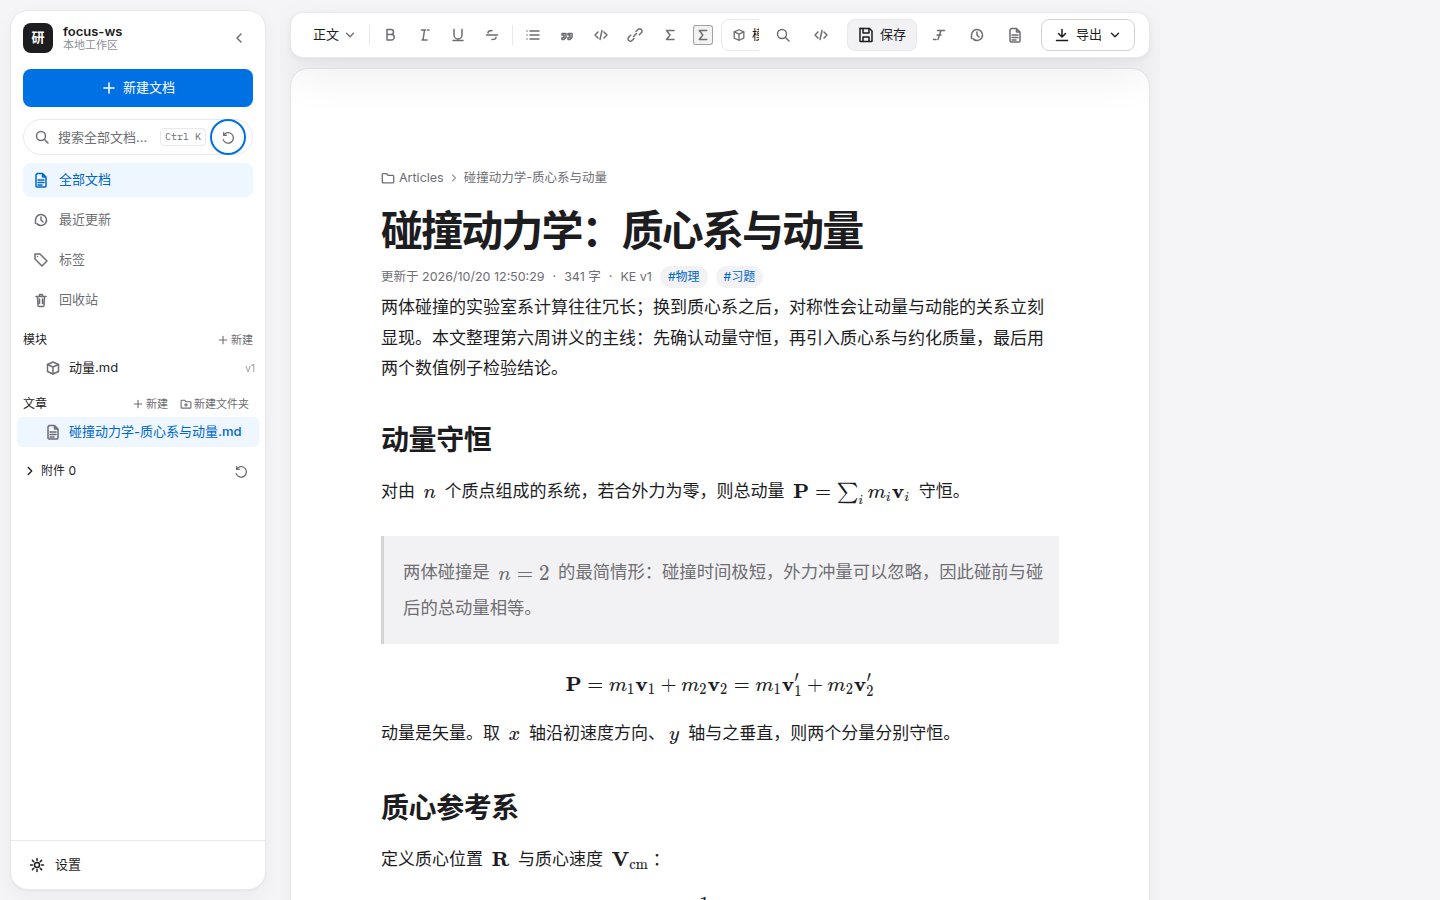
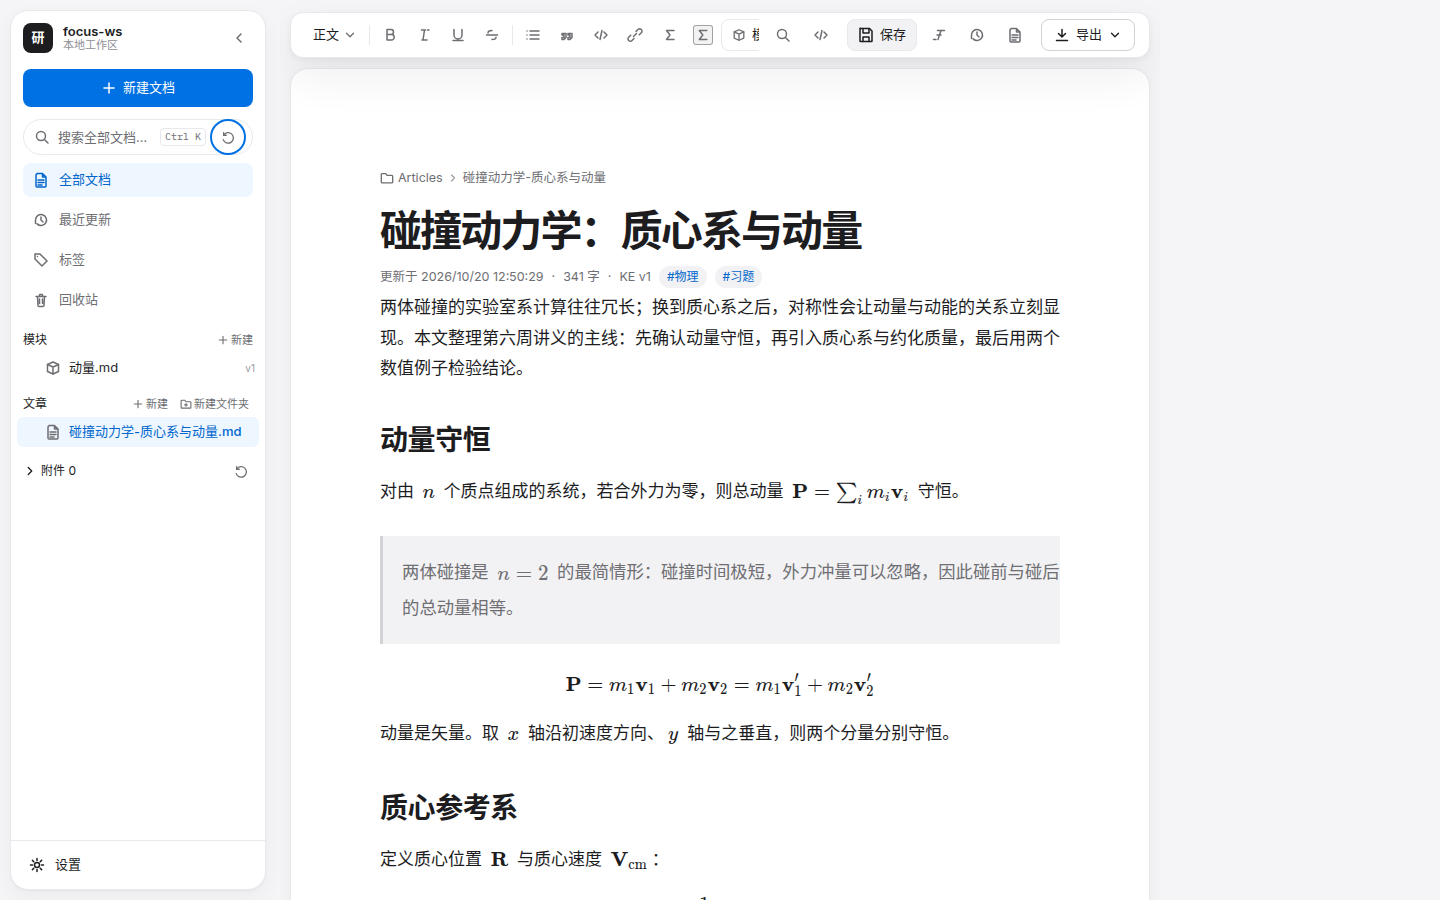
docs(focus-ui): 复验记录——阅读列 680 / 壳层 reduced-motion 修复抽查（QA §9）与证据刷新

diff --git a/docs/focus-ui/VERIFICATION-REPORT.md b/docs/focus-ui/VERIFICATION-REPORT.md
@@ -101,7 +101,7 @@ HEAD 5ed8fa2（dirty 0）
 | 纸面宽 / 圆角 / 边框 | 860 / 18 / 1px | 860 / 18px / 1px | PASS |
 | 纸面居中 | 中心 = 窗口中心 | 1440→720；1024→512；800→400 | PASS |
 | 纸面左边缘（侧栏展开） | 280+10 = 290 | 290 | PASS |
-| 阅读列宽 | 680 | **678**（-2px，见 §4.4） | PASS（±3 容差） |
+| 阅读列宽 | 680 | **678**（验收快照时；Lead 随后把 padding clamp 上限 90→89px，复验 1440 档 = **680**，见 §9） | PASS |
 | 正文 | 17px / 行高 1.8 | 17px / 30.6px | PASS |
 | 标题 | 42px / 1.1 / -0.045em / 650 | 42px / 46.2px / -1.9px / 650 | PASS |
 | 命令条 | 高 46 / top 12 / 圆角 13 / 与纸面同宽 | 46 / 12 / 13px / 860（x 对齐 290） | PASS |
@@ -151,8 +151,8 @@ HEAD 5ed8fa2（dirty 0）
 | 2 | P3 | 文档信息浮层信息优先级不同：基线标题「文档信息」且大纲优先；当前标题「文档属性」且属性优先 | `03` 截图 vs `overlays.png` 02 区 | 若设计定稿要求大纲优先，调整 RightPanel 分区顺序与标题 |
 | 3 | P3 | 设置页形态与基线截图不同（居中卡片浮层 vs 独立页）；「切换工作区」按钮文字疑似被截断为「切换...」 | `06` 截图 | 按 Lead task-1 指令本形态属预期；截断问题建议设置专项目检 |
 | 4 | P3 | 启动器视觉细节：品牌标被蓝色方块 "A" 替代；路径输入/浏览按钮不常驻；「最近使用」条目数取决于真实数据 | `05` 截图 vs `launcher.png` | 若要求与基线像素级一致，需补品牌资产与常驻路径行 |
-| 5 | P3 | 阅读列实测 678px（基线 680px，-2px）：`.focus-paper` padding 的 `clamp(..., 90px)` 上限在 1440 档命中 | `metrics.json`「阅读列宽 680」actual=678 | 视觉不可辨；若要求像素级一致，把 clamp 上限提到 ≥91px 即可 |
-| 6 | P3 | 壳层自定义过渡（`index.css`：侧栏 padding 220ms、收起/展开 140ms）未加 `@media (prefers-reduced-motion: reduce)` 覆盖（组件层 Tailwind `motion-reduce:` 已正确生效） | `a11y-probe.json`：reduce 下组件 `transition-property:none`；`index.css` 无该媒体查询 | 低风险，建议补一条壳层过渡的 reduced-motion 降级 |
+| 5 | P3 | 阅读列实测 678px（基线 680px，-2px）：`.focus-paper` padding 的 `clamp(..., 90px)` 上限在 1440 档命中 | `metrics.json`「阅读列宽 680」actual=678 | **已由 Lead 修复（clamp 90→89px）并复验 PASS：1440 档 = 680**；800 档仍 678（padding 百分比基数是滚动容器宽，非纸面内容宽），视觉不可辨 |
+| 6 | P3 | 壳层自定义过渡（`index.css`：侧栏 padding 220ms、收起/展开 140ms）未加 `@media (prefers-reduced-motion: reduce)` 覆盖（组件层 Tailwind `motion-reduce:` 已正确生效） | `a11y-probe.json`：reduce 下组件 `transition-property:none`；`index.css` 无该媒体查询 | **已由 Lead 补媒体查询并复验 PASS：reduce 下 `.focus-body-row` transitionDuration 0.22s→0s**（§9） |
 | 7 | P3 | ≤760 断点未截图覆盖（800 档属于 760–1280 区间）：纸面全宽去边框圆角行为未取证 | `VISUAL-ACCEPTANCE.md` §5 | 建议后续加 700×900 一张（脚本扩展一小段即可） |
 | 8 | 环境 | 已在跑的 vite dev server `127.0.0.1:5273` **服务陈旧模块**（WSL drvfs watcher 漏事件）：`curl /src/App.tsx` 缺新标识符，`?t=` 才重新 transform | 本次实测（见 `VISUAL-ACCEPTANCE.md` §0） | 用 5273 做视觉自查前先重启该 server，或直接用 `verify-ui.cjs`（默认自起全新实例） |
 
@@ -199,6 +199,29 @@ KE_STRICT=1 node docs/focus-ui/verify-ui.cjs
 | 焦点环/reduced-motion 探针 | `/tmp/focus-shots/a11y-probe.json`、`/tmp/focus-shots/evidence-focus-ring-1440x900.png` |
 | 验收清单（112 检查项） | `docs/focus-ui/VISUAL-ACCEPTANCE.md` |
 | 截图脚本 | `docs/focus-ui/verify-ui.cjs` |
+
+## 9. 复验：对 Lead 两处修复的抽查（验收后追加）
+
+> 说明：本报告 §1–§8 对应快照 `5ed8fa2`（工作树干净）。验收完成后 Lead 在本地修了
+> `frontend/src/index.css` 两处（对应本报告 §5-5 / §5-6），QA 随即做了一次只读复验：
+> `node docs/focus-ui/verify-ui.cjs` + a11y 探针（脚本自起全新 vite，避免陈旧模块）。
+> 复验时 git 状态：`HEAD 5ed8fa2` + 未提交修改（`M frontend/src/index.css`，非 QA 所改）。
+
+| 修复项 | 修复内容 | 复验结果 | 证据 |
+|---|---|---|---|
+| 阅读列 680 | `.focus-paper` 左右 padding `clamp(..., 90px)` → `clamp(..., 89px)` | **PASS**：1440×900 阅读列实测 **680.0**（修复前 678）；119 项断言仍全 PASS。800 档仍 678（padding 百分比基数为滚动容器宽 800 → 60px/侧；属预期，-2px 视觉不可辨） | `/tmp/focus-shots/metrics.json`（actual=680）、`docs/focus-ui/evidence/metrics.json` |
+| reduced-motion 壳层降级 | 新增 `@media (prefers-reduced-motion: reduce)`：`.focus-body-row / .focus-sidebar-collapse / .focus-sidebar-reopen / 命令条 / inspector-sheet` `transition: none !important` | **PASS**：`reducedMotion=reduce` 下 `.focus-body-row transitionDuration` **0.22s → 0s**；命令条同步 0s；焦点环仍 PASS（Tab → 2px solid accent, offset 2px） | `/tmp/focus-shots/a11y-probe.json`、`docs/focus-ui/evidence/a11y-probe.json` |
+
+复验命令与结果：
+
+```
+node docs/focus-ui/verify-ui.cjs
+→ HEAD 5ed8fa2 + dirty 6；截图 8 张；断言 119/119 PASS；EXIT=0
+```
+
+复验结论：**两处 P3 修复均生效，无回归**；`docs/focus-ui/evidence/`、`docs/focus-ui/screenshots/`
+已同步为修复后的最新证据（覆盖修复前副本）。§5 剩余待决项为 1（侧栏 IA，P2，需产品决策）、
+2/3/4（浮层/设置/启动器与基线差异，待设计定稿）、7（≤760 断点截图覆盖）、8（环境：5273 dev server 陈旧）。
 
 ### 附：日志中的非失败噪声（供参考，不影响判定）
 

diff --git a/docs/focus-ui/VISUAL-ACCEPTANCE.md b/docs/focus-ui/VISUAL-ACCEPTANCE.md
@@ -149,9 +149,9 @@ KE_REUSE_VITE=1 node docs/focus-ui/verify-ui.cjs
 2. **文档信息浮层结构顺序**：基线以「大纲」为主体（含「折叠至一级」），属性/标签/历史随后；当前以「文档属性」为主体、属性在前、大纲在后。功能都在，视觉/信息优先级与设计基线不同。
 3. **设置页形态**：当前为居中卡片浮层（含顶部返回、分组 tab、内部滚动），基线为独立设置页；按 Lead task-1 指令属预期，待产品定稿。
 4. **启动器**：hero 品牌标被蓝底方块 "A" 替代；「最近使用」列表常驻卡片在基线下最多 3 条且含失效态示例；路径输入行未常驻。功能可用，视觉与基线有差距。
-5. **阅读列 678 vs 680（-2px）**：`.focus-paper` 左右 padding 用 `clamp(24px, calc((100% - 680px)/2), 90px)`，在 1440 档命中 90px 上限导致内容宽 678px。视觉不可辨，但严格意义上与「阅读列固定 680」差 2px；若要求像素级一致，把 clamp 上限提高到 ≥91px 即可（属产品代码，本清单只记录不改）。
+5. ~~**阅读列 678 vs 680（-2px）**~~ **已修复并复验**：Lead 把 `.focus-paper` padding 的 clamp 上限 90→89px，1440 档复验实测 **680.0**（修复前 678）。800 档实测仍 678（clamp 百分比基数为滚动容器宽而非纸面内容宽，-2px 视觉不可辨，不再追）。
 6. **设置页「切换工作区」按钮文字可能被截断**（截图中显示「切换...」）：建议设置专项目检确认按钮宽度/文案。
-7. **壳层自定义过渡未适配 `prefers-reduced-motion`**：`frontend/src/index.css` 里 `.focus-body-row` 的 220ms padding 过渡、`.focus-sidebar-collapse/.focus-sidebar-reopen` 的 140ms 颜色过渡没有媒体查询降级（带 `motion-reduce:` Tailwind 类的组件在 reduce 下已正确 `transition-property:none`）。低风险，建议补 `@media (prefers-reduced-motion: reduce){ .focus-body-row,...{transition:none} }`。
+7. ~~**壳层自定义过渡未适配 `prefers-reduced-motion`**~~ **已修复并复验**：Lead 补充了 `@media (prefers-reduced-motion: reduce)`（`.focus-body-row / .focus-sidebar-collapse / .focus-sidebar-reopen / 命令条 / inspector-sheet` 过渡置 none）；实测 reduce 下 `.focus-body-row transitionDuration 0.22s → 0s`。
 
 ## 10. 运行记录
 
